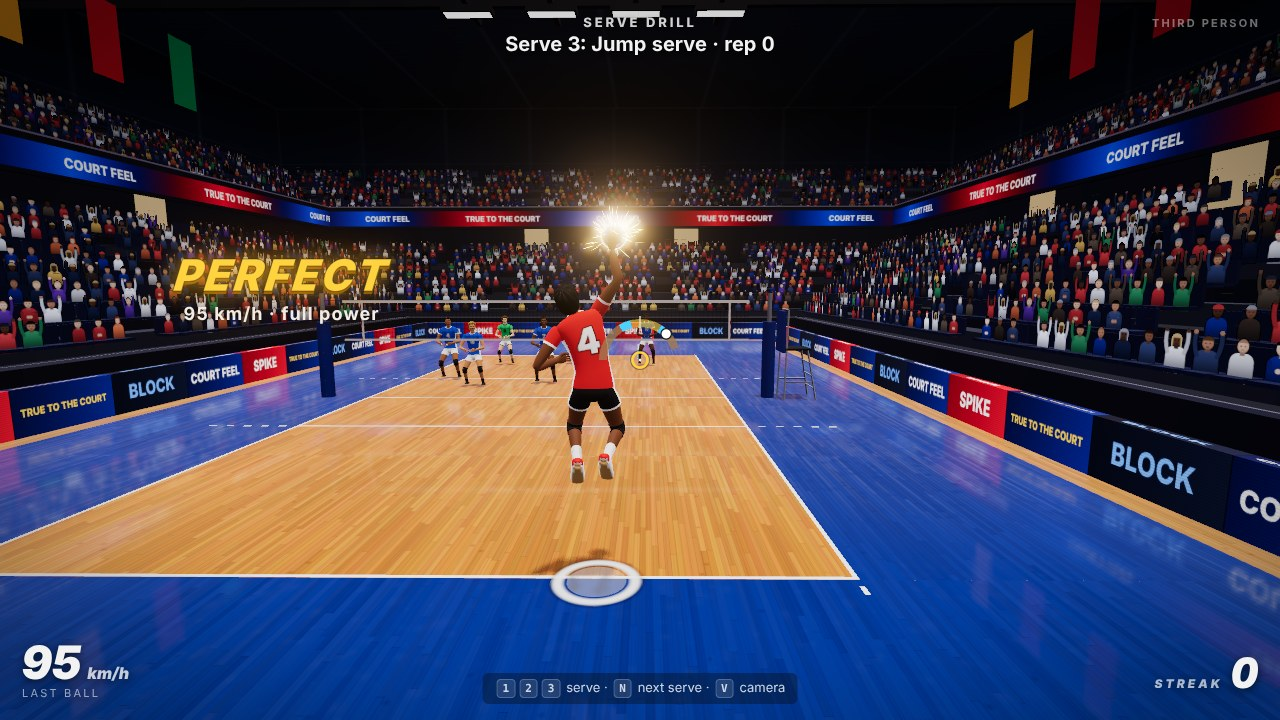
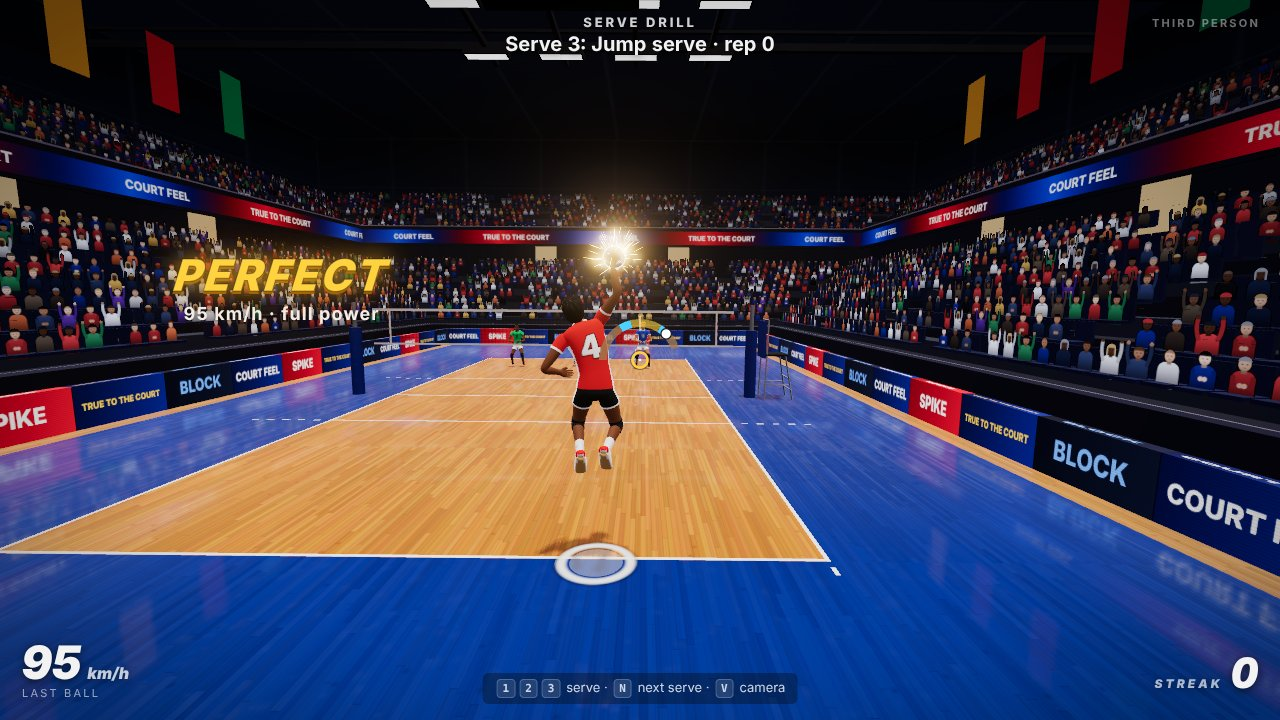
feat(serve): the Serve Drill ends the rep at their pass, served at three passers, so the next serve comes sooner
Reported, after playing it: every rep waited for the receiving team to play
the pass out to their attack before the next serve, so the player served
far less often than they spike in the Spike Drill.

- The serve is served at a three-player reception, the two outside hitters
  and the libero in their receive spots. That is who takes a serve on a real
  court (the team AI never gave one to the setter, middle or opposite), so
  the reception is unchanged; the other three are gone.
- The rep ends at the pass: it is rated on their first touch, the ball is
  dead (nobody plays it on, where it lands is not judged) and the next serve
  can go 1.5 s later (SERVE_DRILL.result, was 2.6 s plus up to 5 s of their
  play). A shank, a pass that leaves the court, is charted as an ace: no
  team-mate is left to save it.

Measured with the perfect autopilot, 30 serves each: standing float 1.00,
jump float 2.37, jump serve 2.79 (was 1.13, 2.31, 2.5); a rep takes about
4.5 s with a float and 5.5 s with a jump serve, the walk back included.

Claude-Session: https://claude.ai/code/session_01UDovnLCLYp3t8jCcMiAGpP

diff --git a/src/game/modes/serveDrill.ts b/src/game/modes/serveDrill.ts
@@ -1,6 +1,6 @@
 import { COURT, SERVE, SERVE_DRILL, SERVE_KINDS, type ServeKind } from '../../config';
 import { planApproach, simulateApproach } from '../../ai/approach';
-import { SLOT_ROLE, SLOTS, TeamAI } from '../../ai/team';
+import { SLOT_ROLE, TeamAI, type Slot } from '../../ai/team';
 import { ApproachGuide } from '../../fx/approachGuide';
 import { Athlete } from '../athlete';
 import { aimPitchFor, type ContactEvent } from '../contact';
@@ -14,10 +14,18 @@ import { ratePass } from './receiveDrill';
  * - `ready`: behind the end line with the ball, nothing tossed yet
  * - `toss`: the toss is up
  * - `flight`: the serve is on its way and nobody has played it
- * - `play`: they passed it; what the pass was worth is not settled yet (a shank may still drop)
- * - `result`: the serve is rated
+ * - `result`: the serve is rated (by their pass, an ace or a fault) and the ball is dead
  */
-type Phase = 'ready' | 'toss' | 'flight' | 'play' | 'result';
+type Phase = 'ready' | 'toss' | 'flight' | 'result';
+
+/**
+ * Who the serve is served at: a three-player reception, the two outside hitters and the libero in
+ * their receive spots. In a real reception those three take every serve while the setter, the
+ * middle and the opposite stand out of the way (the team AI never gives them a serve either), so
+ * the other three are left out: the rep ends on the pass, and nobody plays it on (turned down: the
+ * receiving team playing the pass out to their attack, which made every rep wait for a rally).
+ */
+const RECEIVERS: readonly Slot[] = ['OH1', 'OH2', 'L'];
 
 /**
  * How a serve is rated, the way coaches chart serves: by the pass it forces (0-4). Their pass is
@@ -25,18 +33,22 @@ type Phase = 'ready' | 'toss' | 'flight' | 'play' | 'result';
  */
 export type ServeRating = 0 | 1 | 2 | 3 | 4;
 
-/** the serve's rating for a pass rated `pass` (0-3), `over` the net, or played a second time (`second`) */
-export function rateServe(pass: number, over: boolean, second: boolean): { rating: ServeRating; label: string } {
+/**
+ * the serve's rating for a pass rated `pass` (0-3) or going `over` the net. A pass rated 0 (one
+ * that leaves the court, where nobody can play it) is charted as an ace, as coaches chart a shank.
+ */
+export function rateServe(pass: number, over: boolean): { rating: ServeRating; label: string } {
   if (over) return { rating: 3, label: 'OVERPASS' };
   if (pass >= 3) return { rating: 1, label: 'PASSED TO TARGET' };
   if (pass === 2) return { rating: 2, label: 'PASSED OFF THE NET' };
-  if (pass === 1 || second) return { rating: 3, label: 'OUT OF SYSTEM' };
+  if (pass === 1) return { rating: 3, label: 'OUT OF SYSTEM' };
   return { rating: 4, label: 'ACE · SHANKED' };
 }
 
 /**
- * Serve drill: the player serves at a team in serve receive, with the serve they picked (keys
- * 1-3: standing float, jump float, jump serve). Every serve is rated by the pass it forces.
+ * Serve drill: the player serves at a three-player reception, with the serve they picked (keys
+ * 1-3: standing float, jump float, jump serve). Every serve is rated by the pass it forces, and the
+ * rep ends there.
  */
 export class ServeDrill extends Mode {
   readonly id = 'serve' as const;
@@ -44,8 +56,6 @@ export class ServeDrill extends Mode {
   private phase: Phase = 'ready';
   private t = 0;
   private kindIdx = 0;
-  /** the pass they made of this serve, until it is settled */
-  private pass: { rating: number; over: boolean } | null = null;
   private last: { rating: ServeRating; label: string; kmh: number } | null = null;
   /** ratings so far, by serve */
   private sums: Record<ServeKind, { n: number; sum: number }> = {
@@ -59,8 +69,6 @@ export class ServeDrill extends Mode {
   private spot: { x: number; z: number } | null = null;
   private goAt = -1;
   private pulse = 0;
-  /** when, in the result phase, the receiving team's play on the pass was over (s) */
-  private doneAt = 0;
   /** the run-up under the toss, for a serve lesson (as the Spike Drill gives it for a set) */
   private line: ApproachLine = {
     tGo: -1,
@@ -89,7 +97,7 @@ export class ServeDrill extends Mode {
     const g = this.g;
     this.away = new TeamAI(-1, g);
     let seed = 70;
-    for (const slot of SLOTS) {
+    for (const slot of RECEIVERS) {
       const a = new Athlete(SLOT_ROLE[slot], -1);
       g.addAthlete(a, seed++);
       this.spawned.push(a);
@@ -149,7 +157,6 @@ export class ServeDrill extends Mode {
     g.contact.serving = null;
     this.away.serving = false;
     this.away.place('receive');
-    this.pass = null;
     this.spot = null;
     this.goAt = -1;
     this.line.tGo = this.line.tPlant = -1;
@@ -275,27 +282,14 @@ export class ServeDrill extends Mode {
       case 'flight':
         if (this.t > SERVE_DRILL.flightMax) this.finish(0, 'OUT');
         break;
-      case 'play':
-        // the pass is settled by their second touch, or by the floor (onOutcome)
-        if (this.away.touches >= 2) this.settle(true);
-        else if (this.t > SERVE_DRILL.playMax) this.settle(false);
-        break;
-      case 'result': {
-        // they play the pass out: what your serve let them run is the other half of its rating.
-        // Once their third ball is on its way over (or it has taken too long) the rep is done
-        const lt = g.ball.lastTouch;
-        const over = lt?.side === this.away.side && (this.away.touches >= 3 || g.ball.pos.z > 0);
-        if (g.ballLive && (over || g.ball.state.rest || this.t > SERVE_DRILL.playOn)) {
-          g.ballLive = false;
-          this.doneAt = this.t;
-        }
-        // a serve lesson: the next toss waits until the coach's line about this serve has been read
-        if (!g.ballLive && !g.tutorial.holdingResult() && this.t > Math.max(SERVE_DRILL.result, this.doneAt + SERVE_DRILL.after)) {
+      case 'result':
+        // the ball is dead (the pass flies on, nobody plays it); a serve lesson's next toss also
+        // waits until the coach's line about this serve has been read
+        if (!g.tutorial.holdingResult() && this.t > SERVE_DRILL.result) {
           this.reset();
           this.toStart();
         }
         break;
-      }
     }
   }
 
@@ -343,47 +337,34 @@ export class ServeDrill extends Mode {
       this.toPhase('flight');
       return;
     }
-    // their first touch of the serve: the pass it forced
+    // their first touch of the serve: the pass it forced, and the end of the rep (a whiffed pass
+    // carries on to the floor: an ace)
     if (this.phase === 'flight' && ev.athlete.side === this.away.side && ev.grade !== 'Miss') {
-      const r = ratePass(g, this.away.side);
-      this.pass = { rating: r.rating, over: r.over };
-      // a pass the setter can play, or one going straight back over, is settled now; a shank is an ace unless somebody saves it
-      if (r.over || r.rating >= 1) this.settle(false);
-      else this.toPhase('play');
+      const p = ratePass(g, this.away.side);
+      const r = rateServe(p.rating, p.over);
+      this.finish(r.rating, r.label);
     }
   }
 
   onOutcome(o: Outcome): void {
     const g = this.g;
-    if (this.phase === 'result' && g.ballLive) {
-      // their play on the pass has ended (a kill into the empty court, a ball they dropped)
-      g.ballLive = false;
-      this.doneAt = this.t;
-    } else if (this.phase === 'flight') {
+    if (this.phase === 'flight') {
       const lt = g.ball.lastTouch;
       if (lt?.kind !== 'serve') return;
       if (o.kind === 'in' && o.side === this.away.side) this.finish(4, 'ACE');
       else if (o.netTouch && (o.kind === 'under-net' || o.kind === 'in')) this.finish(0, 'IN THE NET');
       else this.finish(0, o.kind === 'in' || o.kind === 'under-net' ? 'SHORT' : 'OUT');
-    } else if (this.phase === 'play') this.settle(false);
-  }
-
-  /** their pass is settled: `second`, somebody got a second touch on it */
-  private settle(second: boolean): void {
-    const p = this.pass;
-    if (!p) return;
-    const r = rateServe(p.rating, p.over, second);
-    this.finish(r.rating, r.label);
+    }
   }
 
   private finish(rating: ServeRating, label: string): void {
     const g = this.g;
     if (this.phase === 'result') return;
     const fault = rating === 0;
-    // a serve that is a fault is dead: nobody plays it
-    if (fault || rating === 4) g.ballLive = false;
+    // the rep ends here: the ball is dead, nobody plays it on, and where the pass lands is not judged
+    g.ballLive = false;
+    if (this.phase === 'flight') g.judge.disarm();
     g.contact.serving = null;
-    this.doneAt = 0;
     this.toPhase('result');
     this.reps++;
     this.score += rating;

diff --git a/src/config.ts b/src/config.ts
@@ -564,9 +564,11 @@ export const SERVE = {
  * The Serve drill (src/game/modes/serveDrill.ts). The server starts `x` m right of the middle of
  * the end line (servers come from right back) and is walked back there between reps when more
  * than `startSlack` m off. A serve nobody has played or called `flightMax` s after the hit is
- * out; a shanked pass nobody has saved after `playMax` s is an ace. Once a serve is rated the
- * receiving team plays its pass out (their attack, or `playOn` s at most): the next rep starts
- * `result` s after the rating at the earliest, and `after` s after their play has ended.
+ * out. The rep ends when the serve is rated (their pass, an ace or a fault): the ball is dead and
+ * the next rep starts `result` s later, long enough to see the pass leave the passer's arms and
+ * read the rating (the Spike Drill's next set comes 1.9 s after a rep). It used to wait for the
+ * receiving team to play the pass out to their attack; that made a rep twice as long, for what the
+ * rating already says. Owner's call, after playing it.
  * A third-person camera starts the drill looking `lookDepth` m into their court, where a serve
  * goes: a full-power jump serve aimed shorter than about 7 m is in the net (the start screen
  * leaves the camera on mid-court, a spike's aim). In first person you look up at your toss, which
@@ -581,10 +583,7 @@ export const SERVE_DRILL = {
   lookDepth: 7.8,
   startSlack: 0.5,
   flightMax: 6,
-  playMax: 4,
-  playOn: 5,
-  result: 2.6,
-  after: 1.2,
+  result: 1.5,
 } as const;
 
 export const ASSIST = {

diff --git a/tests/playerServe.test.ts b/tests/playerServe.test.ts
@@ -355,14 +355,13 @@ describe('the toss button is held: the longer, the higher the toss', () => {
 
 describe('a serve is rated by the pass it forces (0-4, as coaches chart serves)', () => {
   it('a perfect pass is worth 1 to the server, a pass off the net 2, an out-of-system pass or an overpass 3', () => {
-    expect(rateServe(3, false, true).rating).toBe(1);
-    expect(rateServe(2, false, true).rating).toBe(2);
-    expect(rateServe(1, false, true).rating).toBe(3);
-    expect(rateServe(0, true, false).rating).toBe(3);
+    expect(rateServe(3, false).rating).toBe(1);
+    expect(rateServe(2, false).rating).toBe(2);
+    expect(rateServe(1, false).rating).toBe(3);
+    expect(rateServe(0, true).rating).toBe(3);
   });
 
-  it('a shank nobody can play a second time is an ace; one that a team-mate saves is out of system', () => {
-    expect(rateServe(0, false, false).rating).toBe(4);
-    expect(rateServe(0, false, true).rating).toBe(3);
+  it('the rep stops at the pass: a shank, a pass that leaves the court, is charted as an ace', () => {
+    expect(rateServe(0, false)).toEqual({ rating: 4, label: 'ACE · SHANKED' });
   });
 });

diff --git a/src/ui/drillInfo.ts b/src/ui/drillInfo.ts
@@ -103,9 +103,9 @@ export const DRILL_INFO: Record<ModeId, DrillInfo> = {
   },
   serve: {
     tag: 'Serve',
-    short: 'Three serves at a team in serve receive.',
+    short: 'Three serves at three passers.',
     about:
-      'Pick your serve: a standing float, a jump float or a jump serve, each harder to hit and harder to pass. You toss from behind the end line and serve at six in serve receive: aim at the seams and the deep corners.',
+      'Pick your serve: a standing float, a jump float or a jump serve, each harder to hit and harder to pass. You toss from behind the end line and serve at three passers, the two outsides and the libero: aim at the seams and the deep corners. The rep ends at their pass.',
     scored: 'the pass you force, 0 to 4: 0 a fault (net, out, foot fault, a toss not hit), 1 a perfect pass, 4 an ace',
     keys: [
       { k: '1  2  3', a: 'Standing float, jump float, jump serve' },

diff --git a/.agents/skills/verify-court-feel/features/serve-drill.md b/.agents/skills/verify-court-feel/features/serve-drill.md
@@ -1,6 +1,6 @@
 # Serve Drill
 
-In the Serve Drill you serve from behind the end line at six players in serve receive. You pick the serve before the toss (standing float, jump float, jump serve), toss it, and hit it with the spike's controls: a run-up and a jump for the two jump serves, then hold and release the attack button. Each serve is rated 0 to 4 by the pass it forces, and the receiving team plays its pass out. Faults are rated 0: in the net, out, a foot fault, a toss that was not hit.
+In the Serve Drill you serve from behind the end line at three passers in serve receive (two outside hitters and a libero). You pick the serve before the toss (standing float, jump float, jump serve), toss it, and hit it with the spike's controls: a run-up and a jump for the two jump serves, then hold and release the attack button. Each serve is rated 0 to 4 by the pass it forces, and the rep ends there: the ball is dead and the next serve can go about 1.5 s later. Faults are rated 0: in the net, out, a foot fault, a toss that was not hit.
 
 ## Sub-features
 
@@ -10,7 +10,7 @@ In the Serve Drill you serve from behind the end line at six players in serve re
 - `serve-jump` runs in under the toss of a jump float or a jump serve, jumps and hits.
 - `serve-float-moves` a float flies true and then breaks left, right or down, as hard as it was hit cleanly, and the landing marker follows it late.
 - `serve-watch` a ring pops round a float where it breaks, and the grade is shown to one side of the flight.
-- `serve-rating` rates the serve by the pass it forces and keeps the average for the serve picked.
+- `serve-rating` rates the serve by the pass it forces, ends the rep there, and keeps the average for the serve picked.
 - `serve-toss-fault` calls a toss that comes down unhit, and a swing at a toss still on its way up misses.
 - `serve-foot-fault` calls a serve hit from on or over the end line.
 - `serve-reset` abandons the rep with `n`.
@@ -30,13 +30,13 @@ Preconditions:
 - "Toss at the serve's own height" means `court keydown q`, `court step 0.36`, `court keyup q`. The toss goes on the release; the times after it count from there. `court key q` is a tap: the lowest toss.
 
 - **Enter from Train.** Run `court open --fresh`, `court click 'role=button[name="Skip to the drills"]'`, `court click '.view.on .row:has(.row-t:text-is("Serve Drill"))'` (the state line shows `"drill":"Serve Drill"`), `court clock manual` and `court click '.view.on .panel-foot .play-btn'`. The state line shows `"title":"Serve Drill"`, a score of `Serve 1: Standing float · rep 0` and the message `Pick your serve: 1 2 3 · hold to toss higher: Q · serve at the seams`.
-- **Standing float by hand.** Toss, wait for the ball to top out, hold the left button, release as it comes down. Run `court step 0.3`, toss at the serve's own height, `court step 0.55`, `court mouse down left`, `court step 0.36`, `court mouse up left` and `court step 0.2`. The state line shows `"grade":{"text":"PERFECT","sub":"62 km/h · full power"}`. Run `court step 6 --until 'g.mode.reps === 1'`: the score reads `Serve 1: Standing float · avg 1.00 of 4 · rep 1 · last 1 (62 km/h)` and the banner is `PASSED TO TARGET · 1`. Run `court events`: a `contact` by `me` with `"kind": "serve"`, then a `pass` by an away player.
+- **Standing float by hand.** Toss, wait for the ball to top out, hold the left button, release as it comes down. Run `court step 0.3`, toss at the serve's own height, `court step 0.55`, `court mouse down left`, `court step 0.36`, `court mouse up left` and `court step 0.2`. The state line shows `"grade":{"text":"PERFECT","sub":"62 km/h · full power"}`. Run `court step 6 --until 'g.mode.reps === 1'`: the score reads `Serve 1: Standing float · avg 1.00 of 4 · rep 1 · last 1 (62 km/h)` and the banner is `PASSED TO TARGET · 1`. Run `court events`: a `contact` by `me` with `"kind": "serve"`, then a `pass` by an away player, and no touch after it. Run `court eval 'g.ballLive'`: `false`, the rep ended at the pass. Run `court step 4 --until 'g.mode.canServe(g.me)'`: the next serve can go about 1.5 s after the rating.
 - **Toss height.** Hold `q` for different times and read the top of the toss. Run `court step 20 --until '!g.fx.replaying && g.mode.canServe(g.me)'`, `court keydown q`, `court step 0.2` and `court eval 'g.actions.tossHold()'`: about `0.25`, the ring a quarter full, and `court eval 'g.ball.active'` is `false` (nothing is tossed while the button is held). Run `court step 0.6`, `court keyup q`, `court step 3 --until 'g.ball.active && g.ball.vel.y < 0'` and `court eval '(g.ball.pos.y - g.me.standReach).toFixed(2)'`: about `1.17`, the highest float toss (1.6 times its own 0.8 m less the air). A tap tops out about `0.35` over the standing reach. Let these tosses drop: each is rated `TOSS NOT HIT · 0`. With the jump serve picked (`3`), a higher toss also comes down further ahead: run `court eval 'window.Z0=g.me.pos.z'` before the toss and, just after it, `court eval '(()=>{const p=g.ball.ensurePrediction(g.env,g.simTime); const b={x:0,y:0,z:0}; p.posAt(p.descendThrough(g.me.standReach,g.simTime),b); return (window.Z0-b.z).toFixed(2)})()'`: about `2.67` m for a tap, `3.61` for a 0.36 s hold, `4.39` for 0.85 s (back at the height of the standing reach).
 - **A swing at a rising toss.** Run `court step 20 --until '!g.fx.replaying && g.mode.canServe(g.me)'`, `court key q`, `court step 0.05`, `court mouse down left`, `court step 0.03`, `court mouse up left` and `court step 0.2`. The state line shows `"grade":{"text":"MISS","sub":"Swung early"}`. Run `court step 6 --until 'g.mode.reps === 2'`: the banner is `TOSS NOT HIT · one toss only · 0`.
 - **A toss let go.** Run `court step 20 --until '!g.fx.replaying && g.mode.canServe(g.me)'`, `court key q` and `court step 6 --until 'g.mode.reps === 3'`. The banner is `TOSS NOT HIT · one toss only · 0` and the average has dropped.
 - **Foot fault.** Walk onto the end line, toss and hit. Run `court step 20 --until '!g.fx.replaying && g.mode.canServe(g.me)'`, `court keydown w`, `court step 3 --until 'g.me.pos.z < 9.1'`, `court keyup w`, `court step 0.4`, toss at the serve's own height, `court step 0.55`, `court mouse down left`, `court step 0.36`, `court mouse up left` and `court step 0.25`. The state line shows the grade of the hit and the banner `FOOT FAULT · 0`.
 - **Pick the jump serve.** Run `court step 20 --until '!g.fx.replaying && g.mode.canServe(g.me)'`, `court key 3` and `court step 0.05`. The state line shows a score starting `Serve 3: Jump serve` and the message `Serve 3: Jump serve`. Run `court step 20 --until 'g.mode.canServe(g.me)'` and `court eval 'g.me.pos.z.toFixed(1)'`: `12.3`, the jump serve's start, 3.4 m behind the end line (the walk back stops within 0.1 m of it).
-- **Jump serve by hand.** Toss, run in, plant and wind up, take off, release. Toss at the serve's own height, then run `court step 0.24`, `court keydown Shift`, `court keydown w`, `court step 0.47`, `court keydown Space`, `court mouse down left`, `court step 0.28`, `court keyup Space`, `court keyup w`, `court keyup Shift`, `court step 0.36`, `court mouse up left` and `court step 0.1`. The state line shows `"grade":{"text":"PERFECT","sub":"95 km/h · full power"}`. Run `court shot serve-jump`: the server is in the air behind the end line with the ball over the hitting hand. Run `court step 8 --until 'g.mode.reps === 5'`: a banner with the rating (`OUT OF SYSTEM · 3` when this was written). Run `court eval '(g.me.takeoffPos.z - 9).toFixed(2)'`: about `0.96`, the take-off was behind the line.
+- **Jump serve by hand.** Toss, run in, plant and wind up, take off, release. Toss at the serve's own height, then run `court step 0.24`, `court keydown Shift`, `court keydown w`, `court step 0.47`, `court keydown Space`, `court mouse down left`, `court step 0.28`, `court keyup Space`, `court keyup w`, `court keyup Shift`, `court step 0.36`, `court mouse up left` and `court step 0.1`. The state line shows `"grade":{"text":"PERFECT","sub":"95 km/h · full power"}`. Run `court shot serve-jump`: the server is in the air behind the end line with the ball over the hitting hand. Run `court step 8 --until 'g.mode.reps === 5'`: a banner with the rating (`ACE · SHANKED · 4` when this was written). Run `court eval '(g.me.takeoffPos.z - 9).toFixed(2)'`: about `0.96`, the take-off was behind the line.
 - **Jump float by hand.** Run `court step 20 --until '!g.fx.replaying && g.mode.canServe(g.me)'`, `court key 2`, `court step 0.05`, `court step 20 --until 'g.mode.canServe(g.me)'`, then toss at the serve's own height, `court step 0.16`, `court keydown Shift`, `court keydown w`, `court step 0.24`, `court keydown Space`, `court mouse down left`, `court step 0.28`, `court keyup Space`, `court keyup w`, `court keyup Shift`, `court step 0.33`, `court mouse up left` and `court step 0.2`. The state line shows `"grade":{"text":"PERFECT","sub":"73 km/h · full power"}`.
 - **The float breaks.** Serve the jump float of the bullet above again, but stop 0.12 s after the release: replace its last `court step 0.2` with `court step 0.12`. Run `court eval '(()=>{const s=g.ball.state; window.L={x:s.p.x,z:s.p.z,vx:s.v.x,vz:s.v.z}; window.B=0; g.events.on("floatBreak",()=>window.B++); return s.knuckle})()'`: `1` (a Perfect contact; `0.55` for Good). Then four times `court step 0.2` and `court eval '(()=>{const s=g.ball.state,L=window.L; const p=g.ball.ensurePrediction(g.env,g.simTime); return (s.p.x-L.x-L.vx*(s.p.z-L.z)/L.vz).toFixed(2)+" off the line, marker "+p.land.x.toFixed(2)+","+p.land.z.toFixed(2)+", breaks "+window.B})()'`. The first number stays `0.00` while the ball flies true, then moves away from 0 once `breaks` is 1 or more (to `-0.84` at the passers when this was written), and the marker moves after it: the ball left the line it was hit on, and the marker shows where it was heading a fifth of a second before. Run `court shot serve-float`: the ball and its trail in flight, the grade to the left of the flight and not over it. A serve that breaks downward only keeps the first number near 0 and moves the marker's second number.
 - **Reset the rep.** Toss and press `n` before the ball comes down. Run `court step 20 --until '!g.fx.replaying && g.mode.canServe(g.me)'`, `court eval 'g.mode.reps'`, `court key q`, `court step 0.3`, `court key n`, `court step 0.05` and `court state`. `game.ball` is `null` and `game.score.reps` is the number `eval` printed: the rep was abandoned, not rated.

diff --git a/README.md b/README.md
@@ -111,7 +111,7 @@ Real frames from the game: no paint-overs, no staged cameras.
   </tr>
   <tr>
     <td width="50%" valign="top">
-      <img src="docs/screenshots/serve-drill-jump-serve.jpg" alt="Serve Drill from behind the server: in the air over the end line, the arm through the ball, PERFECT 95 km/h full power to one side of the flight, six receivers waiting on the far court">
+      <img src="docs/screenshots/serve-drill-jump-serve.jpg" alt="Serve Drill from behind the server: in the air over the end line, the arm through the ball, PERFECT 95 km/h full power to one side of the flight, the libero waiting on the far court, the two outside hitters behind the server">
       <b>Your serve.</b> Standing float, jump float or jump serve: the toss, then a spike's run-up, jump and swing. This one took off a metre behind the end line.
     </td>
     <td width="50%" valign="top">
@@ -353,7 +353,7 @@ screen show them. Only your player uses them; AI players keep the defaults.
 5. **Setter Drill** — passes come in; look at a hitter (outside, quick, back
    set — the target ring lights up) and press right mouse as the ball drops.
    Your hitters attack against a live blocker.
-6. **Serve Drill** — you serve at six in serve receive. Pick the serve before
+6. **Serve Drill** — you serve at three passers (the two outsides and the libero, a real reception). Pick the serve before
    the toss, as on a court (1 / 2 / 3), and each one is harder to hit and
    harder to pass than the one before:
 
@@ -400,13 +400,14 @@ screen show them. Only your player uses them; AI players keep the defaults.
 
    A serve is rated by the pass it forces, the way coaches chart serves:
    **0** a fault, **1** passed to target, **2** passed off the net, **3** out
-   of system or an overpass, **4** an ace (or a shank nobody saves). Faults
+   of system or an overpass, **4** an ace (or a shank, a pass that leaves the court). Faults
    are the real ones: in the net, out, a toss you did not hit (one toss only,
    FIVB rule 12.4.2) and the **foot fault** (rule 12.4.3): on or over the end
    line at the hit, or at the take-off of a jump serve; landing in the court
    afterwards is fine. A mistimed float usually still lands in; a jump serve met
-   early loses its topspin and sails long. The receiving team plays its pass
-   out, so you see what your serve let them run.
+   early loses its topspin and sails long. The rep ends at the pass: the
+   rating comes up, the ball is dead and the next serve is yours a moment
+   later, so you can serve rep after rep.
 7. **Mini Rally** — 6 v 6 with you in your position. The AI receives, sets
    (often to you), attacks, blocks and digs: AI defenders also dig to the side,
    pass slow balls overhand and dive for balls they can't reach on foot. A dive
